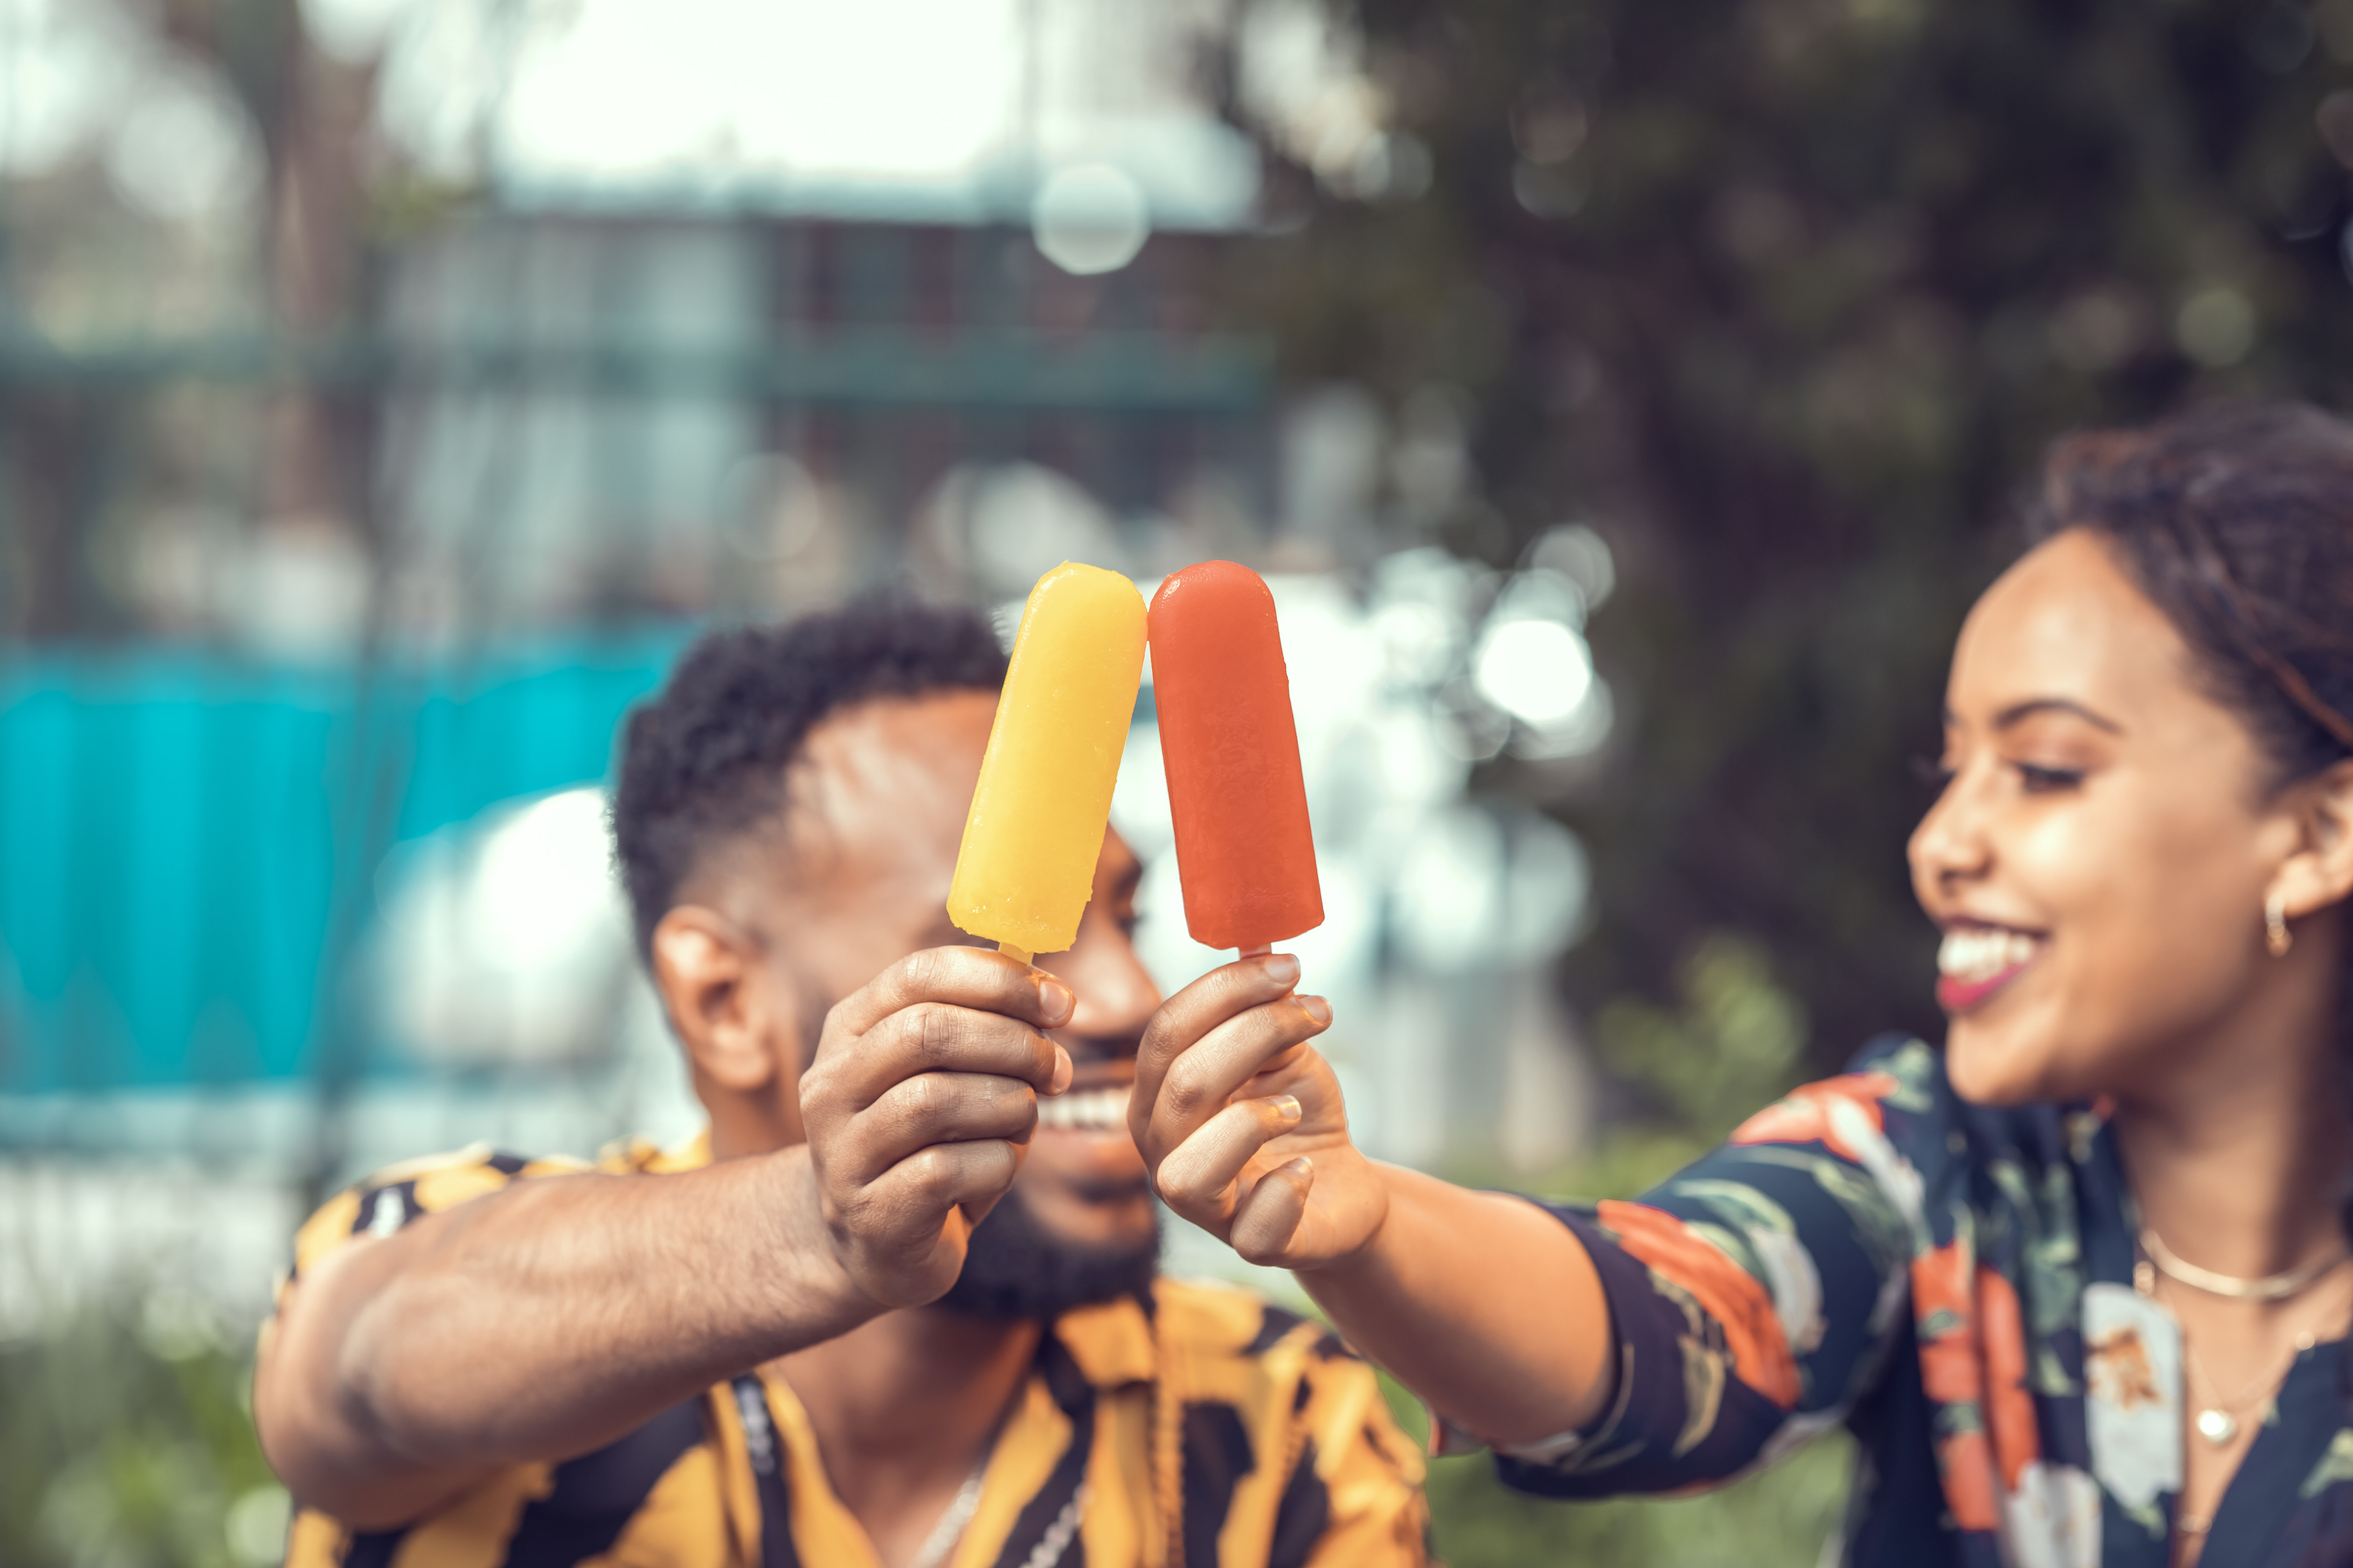
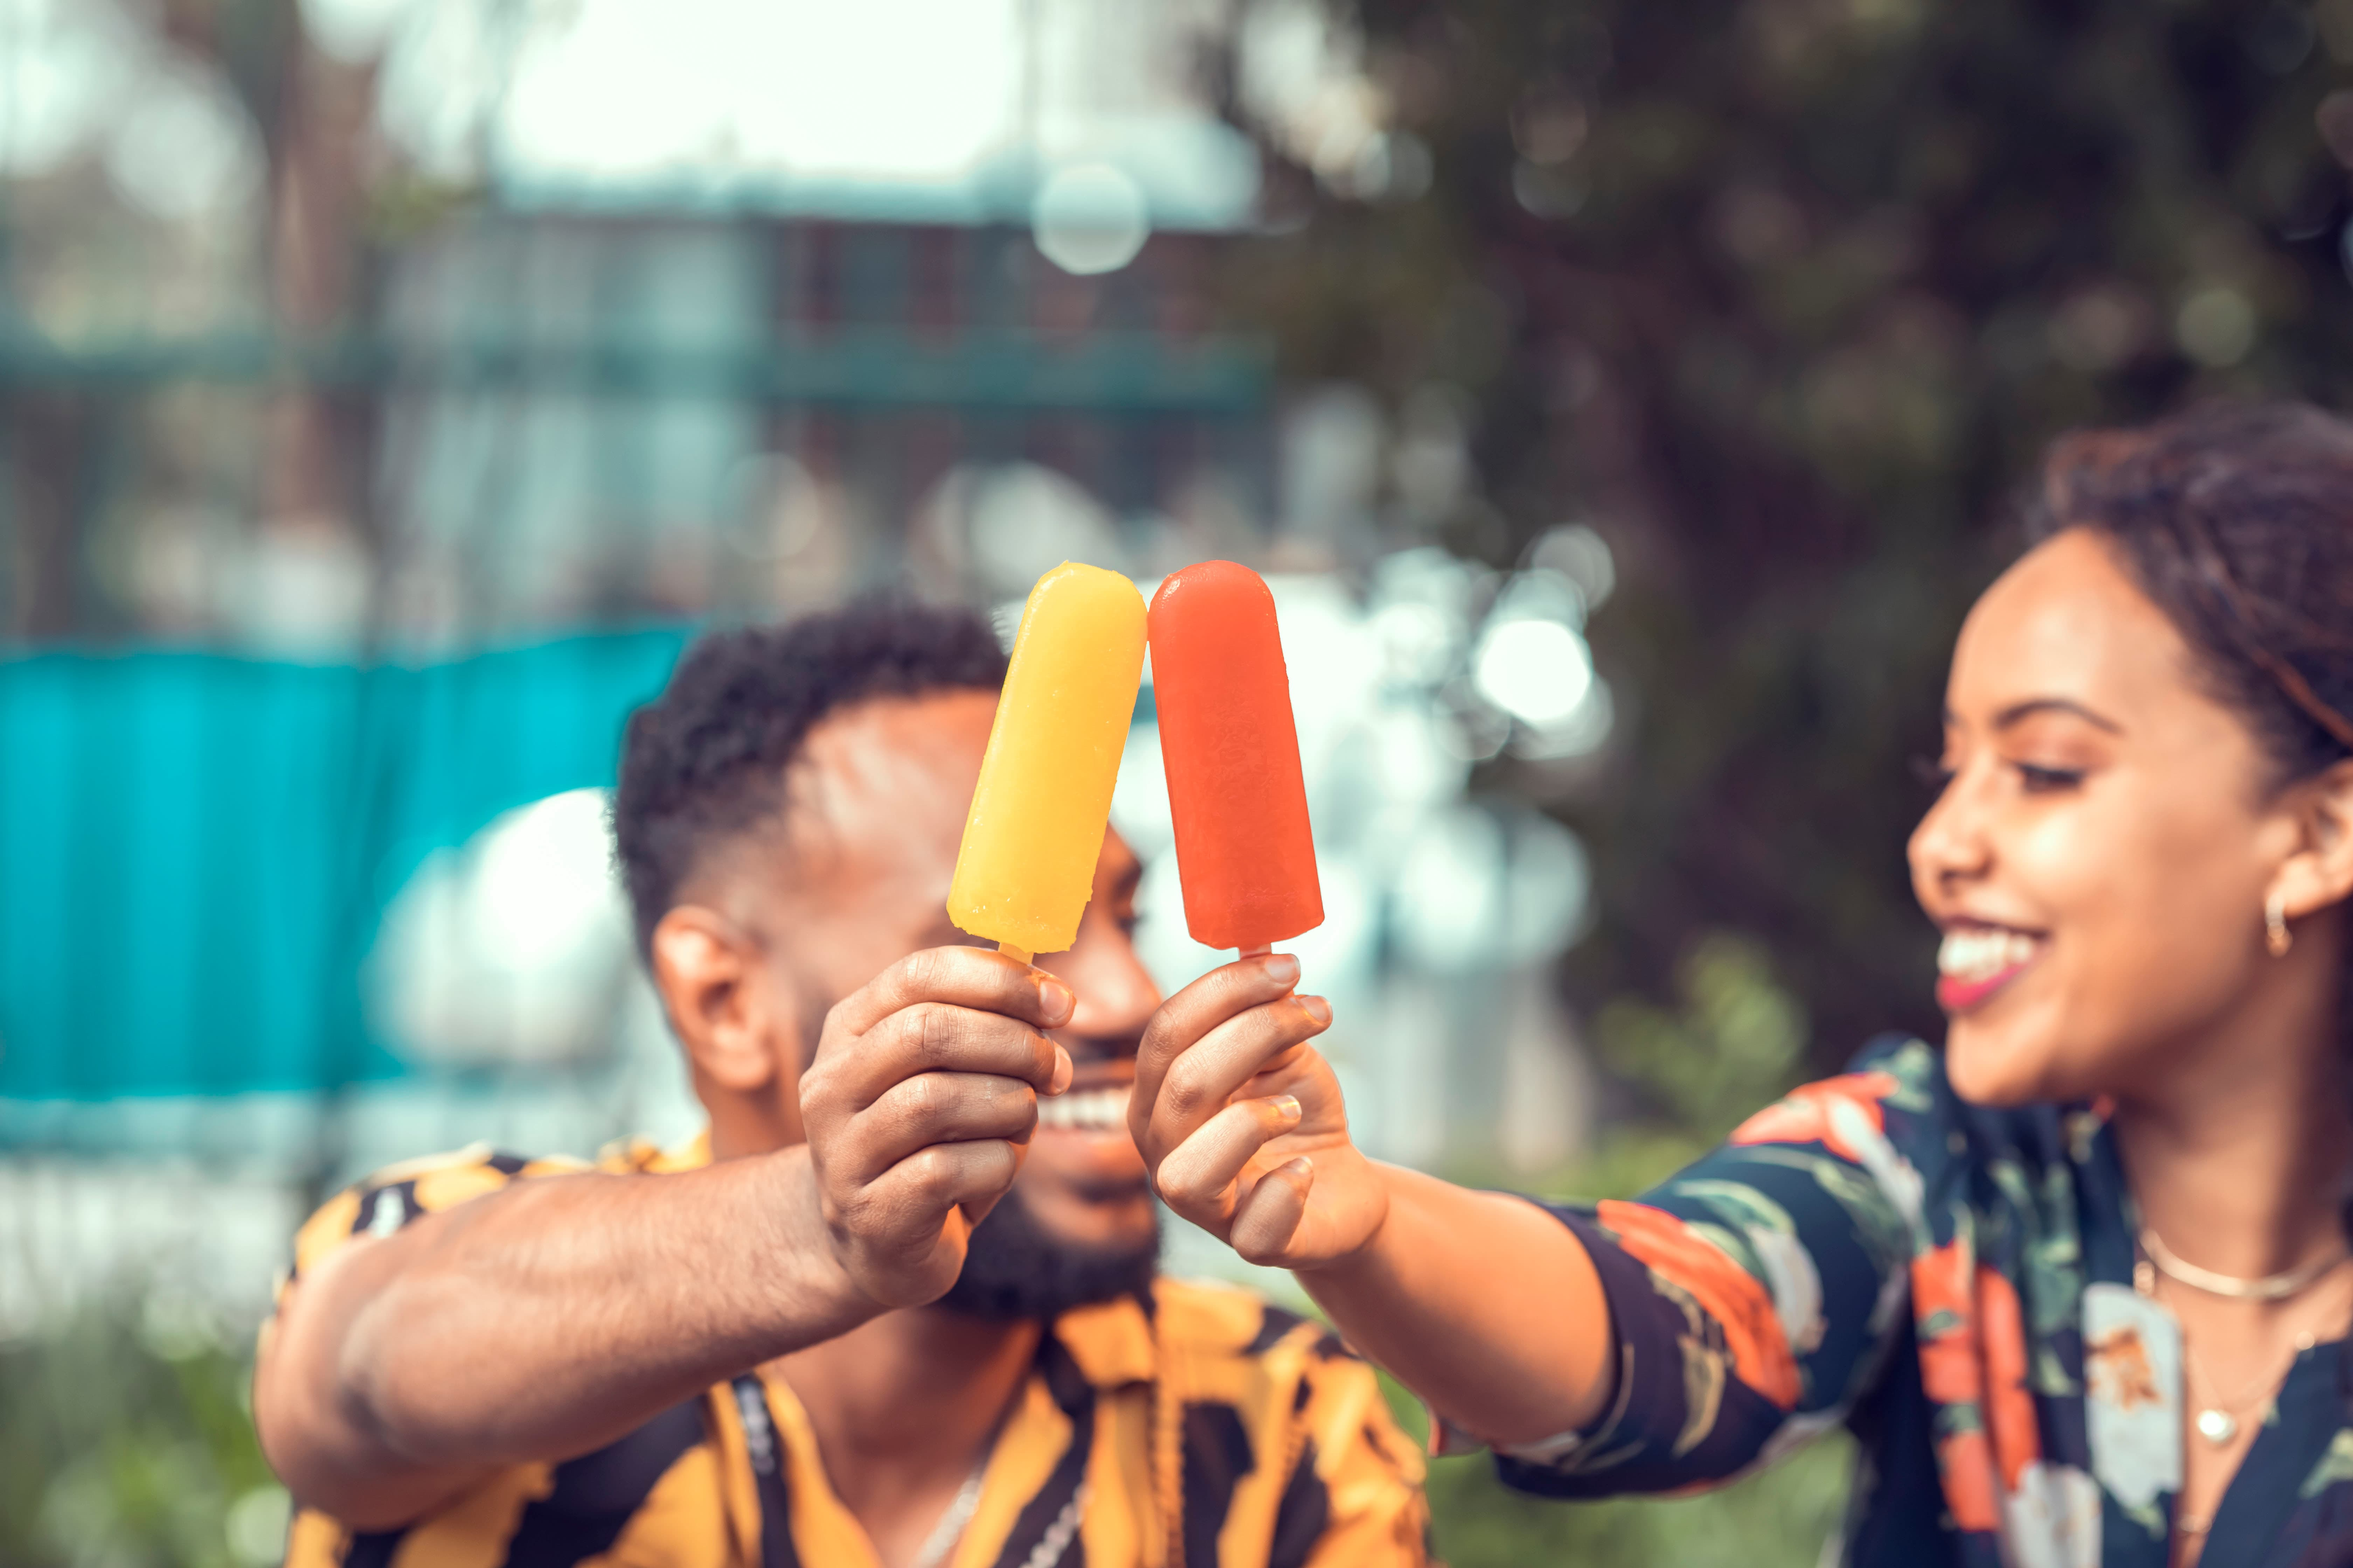
.

diff --git a/index.css b/index.css
@@ -48,7 +48,7 @@ body {
   left: 0;
   width: 100%;
   height: 100vh;
-  background-image: image-set('pics/marketing-branding-planning-vision-goals-concept.jpg');
+  background-image: image-set('pics/home background compressed.jpg');
   background-size: cover;
   background-repeat: no-repeat;
   background-position: center;
@@ -82,9 +82,11 @@ body {
 }
 
 .navbar.scrolled {
-  background-color: rgba(255, 244, 244, 0.479)
+  background-color: rgba(255, 244, 244, 0.479); 
 }
-
+.navbar.scrolled a {
+  color:black; /* Change this to your desired text color */
+}
 .logo {
   position: fixed;
   width: 200px;
@@ -125,7 +127,7 @@ body {
   display: block;
   width: 20px;
   height: 2px;
-  background-color: black;
+  background-color: white;
   transition: all 0.3s ease;
 }
 
@@ -153,7 +155,7 @@ body {
 
 .navbar-menu li a {
   text-decoration: none;
-  color: black;
+  color: white;
   transition: 0.3s ease;
   padding: 10px;
   border-radius: 10px;
@@ -189,7 +191,8 @@ body {
   flex-direction: column;
   justify-content: center;
   align-items: center;
-  text-shadow: 1px 1px 2px white;
+  text-shadow: 1px 1px 2px black;
+  color: white;
 }
 
 .col1 h1 {
@@ -422,12 +425,11 @@ body {
   color: #909090;
   flex-direction: column;
   background-color: #222222;
-  transition: background-color 0.8s ease;
   padding: 20px;
   border-radius: 10px;
   opacity: 0;
   transform: translateX(100px);
-  transition: opacity 0.5s, transform 0.5s;
+  transition: opacity 0.5s, transform 0.5s,background-color 0.8s ease;
   cursor: pointer;
 }
 .pic{
@@ -916,7 +918,7 @@ body {
   }
   
   .wrapper::before,.wrapper{
-    height: 60vh;
+    height: 80vh;
     
   }
   .homepage{
@@ -985,7 +987,7 @@ body {
 @media (max-width:680px) {
 
   .wrapper::before,.wrapper{
-    height: 60vh;
+    height: 80vh;
   }
   .introduction {
     flex-direction: column;
@@ -1106,7 +1108,7 @@ body {
 
 @media (max-width:490px) {
   .wrapper::before,.wrapper{
-    height: 60vh;
+    height: 70vh;
   }
   .introduction,.homepage {
     margin-top: 0px;

diff --git a/about.css b/about.css
@@ -45,7 +45,7 @@ body {
     left: 0;
     width: 100%;
     height: 80vh;
-     background-image: image-set('pics/two-young-adults-sitting-indoors-holding-smart-phones-surfing-net-generated-by-ai.jpg');
+     background-image: image-set('pics/about us background compressed.jpg');
     background-size: cover;
     background-repeat: no-repeat;
     background-position: center;
@@ -78,6 +78,9 @@ body {
   
   .navbar.scrolled {
     background-color: rgba(255, 244, 244, 0.479)
+  }
+  .navbar.scrolled a {
+    color:black; /* Change this to your desired text color */
   }
   
   .logo {
@@ -121,7 +124,7 @@ body {
     display: block;
     width: 20px;
     height: 2px;
-    background-color: black;
+    background-color: white;
     transition: all 0.3s ease;
   }
   
@@ -149,7 +152,7 @@ body {
   
   .navbar-menu li a {
     text-decoration: none;
-    color: black;
+    color: white;
     transition: 0.3s ease;
     padding: 10px;
     border-radius: 10px;
@@ -237,12 +240,11 @@ body {
     color: #909090;
     flex-direction: column;
     background-color: #222222;
-    transition: background-color 0.8s ease;
     padding: 20px;
     border-radius: 10px;
     opacity: 0;
   transform: translateX(100px);
-  transition: opacity 0.5s, transform 0.5s;
+  transition: opacity 0.5s, transform 0.5s,background-color 0.8s ease;
     box-shadow: 0 4px 6px rgba(0, 0, 0, 1), 0 2px 4px rgba(0, 0, 0, 0.15);
     cursor: pointer;
 }

diff --git a/ContactPage.html b/ContactPage.html
@@ -20,7 +20,7 @@
             <img src="pics/URSHA_LOGO-removebg-preview.png" alt="">
             <p>Gursha digitals</p>
         </div>
-        <nav class="navbar">
+        <nav class="navbar" id="navbar">
 
             <input type="checkbox" id="navbar-toggle" class="navbar-toggle">
             <label for="navbar-toggle" class="navbar-toggle-label">
@@ -148,6 +148,17 @@
     </footer>
 </body>
 <script>
+    window.addEventListener('scroll', function () {
+        var menu = document.getElementById('navbar');
+        var scrollPosition = window.scrollY;
+
+        if (scrollPosition > 450) { // Change the value to the desired scroll position
+            menu.classList.add('scrolled');
+        } else {
+            menu.classList.remove('scrolled');
+        }
+    });
+
     window.addEventListener('load', function () {
       var loadingScreen = document.querySelector('.loading-screen');
       loadingScreen.classList.add('hidden');

diff --git a/service.css b/service.css
@@ -48,7 +48,7 @@ body {
     left: 0;
     width: 100%;
     height: 100vh;
-    background-image: image-set('pics/creative-light-bulb-abstract-glowing-blue-background-generative-ai.jpg');
+    background-image: image-set('pics/contact background compressed.jpg');
     background-size: cover;
     background-repeat: no-repeat;
     background-position: center;
@@ -81,6 +81,9 @@ body {
 }
 .navbar.scrolled {
     background-color: rgba(255, 244, 244, 0.479)
+  }
+  .navbar.scrolled a {
+    color:black; /* Change this to your desired text color */
   }
 .logo {
     position: fixed;

diff --git a/ContactPage.css b/ContactPage.css
@@ -67,7 +67,12 @@ body {
     width: 100%;
     /* Adjust the z-index as needed */
 }
-
+.navbar.scrolled {
+    background-color: rgba(255, 244, 244, 0.479); 
+  }
+  .navbar.scrolled a {
+    color:black; /* Change this to your desired text color */
+  }
 .logo {
     position: fixed;
     width: 200px;
@@ -132,6 +137,7 @@ body {
 
 }
 
+
 .navbar-menu li {
     margin-left: 10px;
 }
@@ -139,7 +145,7 @@ body {
 
 .navbar-menu li a {
     text-decoration: none;
-    color: black;
+    color: white;
     transition: 0.3s ease;
     padding: 10px;
     border-radius: 10px;
